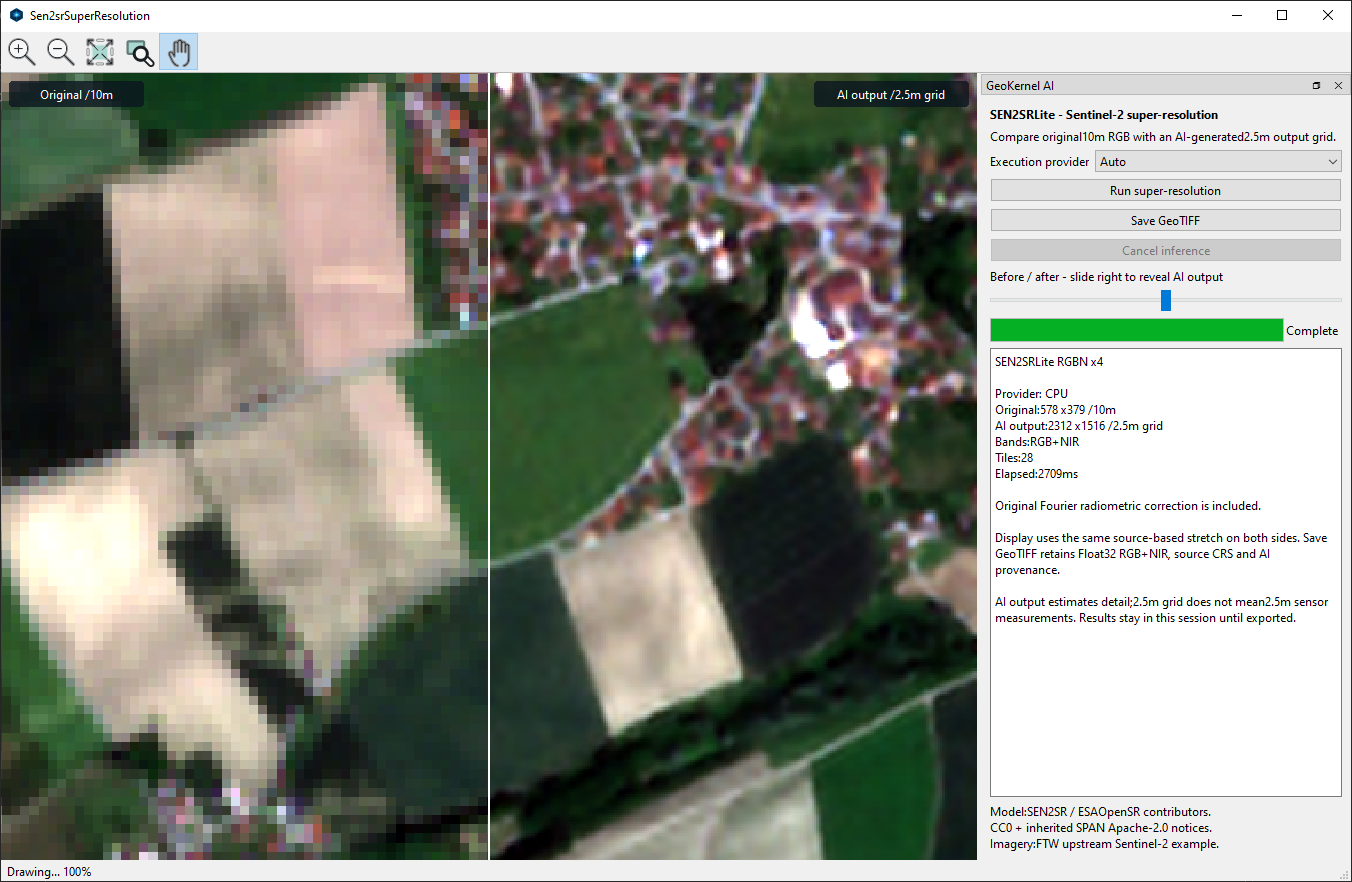
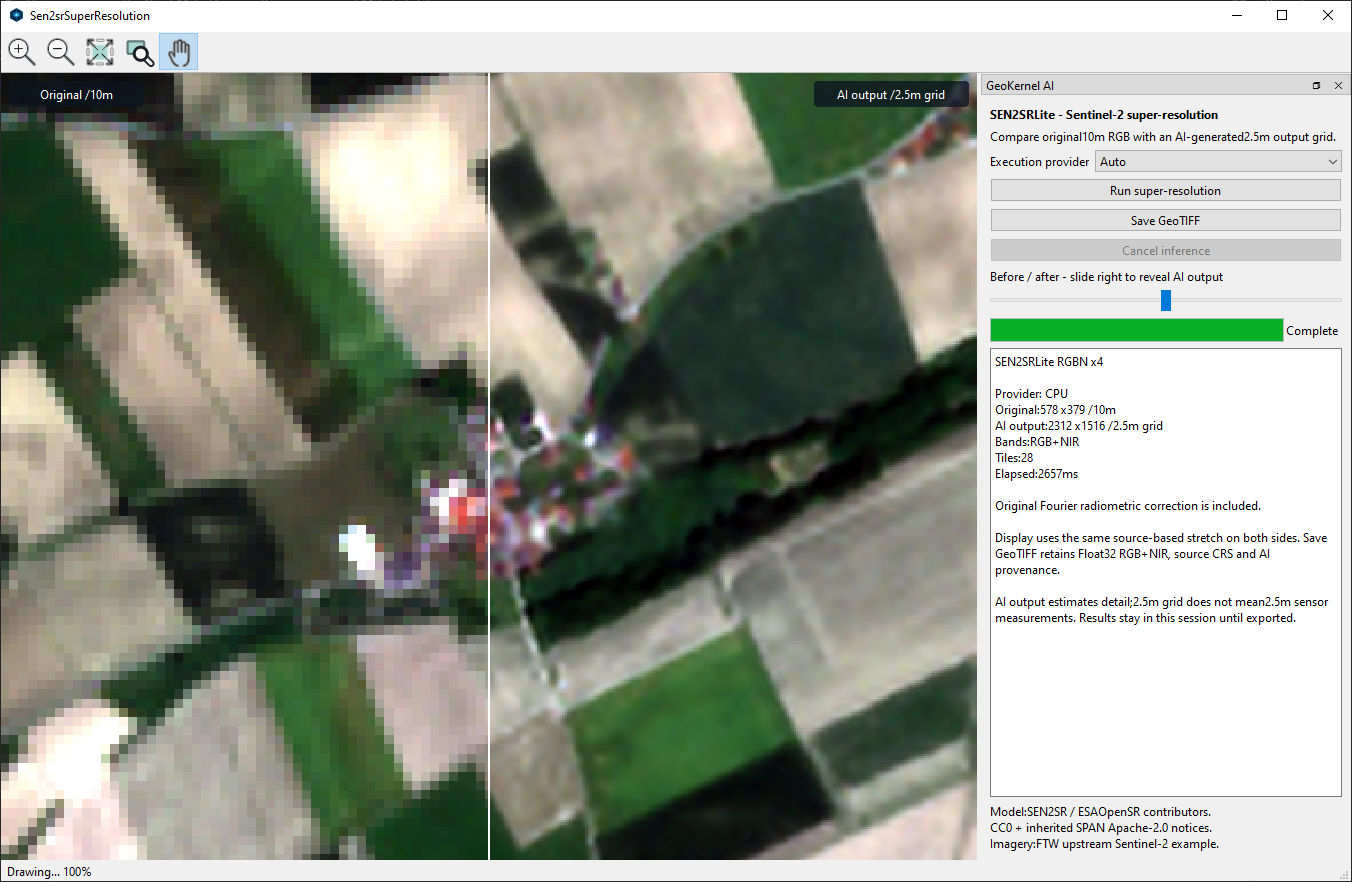
Sen2srSuperResolution

diff --git a/Sen2srSuperResolution/README.md b/Sen2srSuperResolution/README.md
@@ -39,14 +39,14 @@ set QT_QPA_PLATFORM=offscreen
 
 Explicit smoke mode writes a scientific GeoTIFF and before/after comparison PNGs. It runs the real downloaded assets, checks visible original/AI differences, actual comparison slider endpoints, synchronized zoom and cancellation. Normal use writes predictions only after Save GeoTIFF. Numerical/native execution validation is not a guarantee of true2.5m sensor detail or improved downstream analysis. CPU validated; CUDA/DirectML may fall back for DFT and need hardware validation.
 
-## Published SDK1.5.37
+## Published SDK1.5.38
 
-Requires GeoKernel1.5.37 or newer. An empty GEOKERNEL_ROOT downloads the latest public SDK and verifies the release SHA-256. No SDK from GeoKernel/outputs/sam3-sdk is required.
+Requires GeoKernel1.5.38 or newer. An empty GEOKERNEL_ROOT downloads the latest public SDK and verifies the release SHA-256. No SDK from GeoKernel/outputs/sam3-sdk is required.
 
 To replace an older local SDK cached in CMake, configure with:
 
 ```bat
-cmake --preset windows-msvc -DCMAKE_MAKE_PROGRAM=C:/Ninja/ninja.exe -DCMAKE_PREFIX_PATH=C:/Qt/6.11.0/msvc2022_64 -DGEOKERNEL_ROOT= -UGeoKernel_DIR -DGEOKERNEL_SDK_VERSION=1.5.37
+cmake --preset windows-msvc -DCMAKE_MAKE_PROGRAM=C:/Ninja/ninja.exe -DCMAKE_PREFIX_PATH=C:/Qt/6.11.0/msvc2022_64 -DGEOKERNEL_ROOT= -UGeoKernel_DIR -DGEOKERNEL_SDK_VERSION=1.5.38
 cmake --build --preset windows-msvc-release
 ```
 
